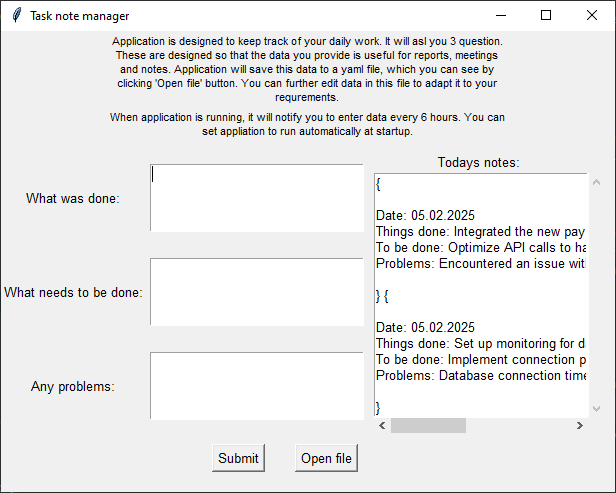
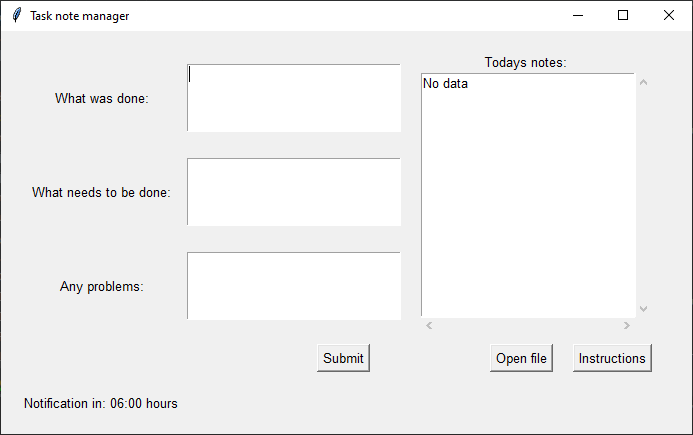
Added instructions for use, updated screenshots

diff --git a/UI.py b/UI.py
@@ -115,25 +115,28 @@ class UI(tkinter.Frame):
             self.counter.config(text=f"Notification in: {time_str} hours")
         else:
             self.counter.config(text="No upcoming notification")
+    def create_section(self, parent: tkinter.BaseWidget, title: str, body: str):
+        section = tkinter.Frame(parent)
+        tkinter.Label(section, text=title, font=(self.config_manager.font_family, self.config_manager.font_size_normal, "bold")).grid(row=0, column=0)
+        tkinter.Label(section, text=body, font=self.get_font_config(), wraplength=400,
+            justify=LEFT).grid(row=1, column=0)
+        return section
 
     def open_information_popup(self):
         top = tkinter.Toplevel(self.root)
         top.title("About application")
         top.config(padx=10, pady=10)
 
-        instructions = tkinter.Label(top)
-        instructions.config(
-            text="""Goal of this application is to keep track of your daily work. It will ask you 3 question. These are designed so that the data you provide is useful for reports, meetings and notes. 
-
-Application will save this data to a yaml file, which you can see by clicking 'Open file' button. You can further edit data in this file to adapt it to your requrements. Each entry is marked with "!NoteEntry", you may copy it and modify it.
-
-Starting from the time you run application, it will notify you every 6 hours. In order to automatically start application, you can set it to run at startup.
-            """,
-            wraplength=400,
-            justify=LEFT,
-            font=(self.config_manager.font_family, self.config_manager.font_size_small)
-        )
+        instructions = self.create_section(top, "Instructions", """At the start of a workday, run the application - either manual or you can set it to autorun at startup. 6 hours from application startup, you will be asked to provide data.
+                    """)
         instructions.grid(row=0, column=0)
+
+        about = self.create_section(top, "About", """This application is designed to keep track of your daily work. It will ask you 3 question. The data you provide using these questions is useful for reports, meetings and notes. 
+
+Application will save these answers to a yaml file, which you can see by clicking 'Open file' button. You can further edit data in this file to adapt it to your requrements. Each entry is marked with "!NoteEntry", you may copy it and modify it.
+            """)
+        about.grid(row=1, column=0)
+
 
 
         config_list = tkinter.Label(top)
@@ -143,4 +146,4 @@ Starting from the time you run application, it will notify you every 6 hours. In
             justify=LEFT,
             font="TkFixedFont"
         )
-        config_list.grid(row=1, column=0)
+        config_list.grid(row=3, column=0)

diff --git a/README.md b/README.md
@@ -4,6 +4,10 @@
 
 ![ui screenshot](resources/ui.png "UI Screenshot")
 ![file screenshot](resources/file.png "File Screenshot")
+ 
+# Daily Usage
+At the start of your workday, run the application. You can either launch it manually or set it to autorun at startup.  
+6 hours after the application starts, you will be prompted to provide your daily task data.
 
 ## Key Features
 
@@ -32,11 +36,14 @@ Whether you're managing personal goals or team projects, Task Note Manager is he
 Make sure you have Python 3.11 or higher installed. You would also need pipenv.
 
 1. `pipenv install`
-2. `pienv run python main.py`
+2. `pipenv run python main.py`
 
 # Build instructions
 
-Before you build this app, note that antivirus may flag it as potentially malicious executable. This is normal, you should add an exception for file in your antivirus program. Application may also need admin permissions to run in order to create and update output file.
+When building this application locally, note that antivirus may flag it as potentially malicious executable. This is normal, you should add an exception for the file in your antivirus program. The application may also need admin permissions to run in order to create and update the output file.
 
 1. `pipenv install --dev`
-2. Run `pipenv run pyinstaller --noconsole --onefile --windowed --name "Task Note Manager" main.py`. Option --noconsole will build app so that console window will not be displayed when running executable. Option --onefile will bundle all files into one executable. 
+2. Run `pipenv run pyinstaller --noconsole --onefile --windowed --name "Task Note Manager" main.py`.  
+   - `--noconsole`: Hides the console window when running the executable.  
+   - `--onefile`: Bundles all files into a single executable.  
+   - `--windowed`: Ensures the app runs as a GUI application.
